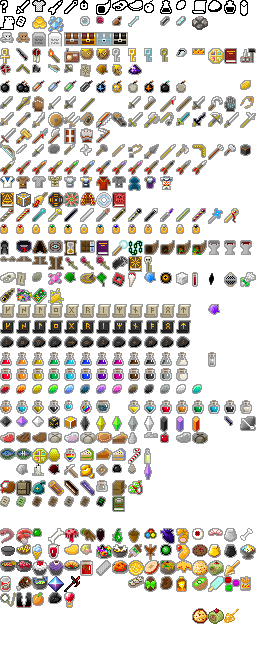
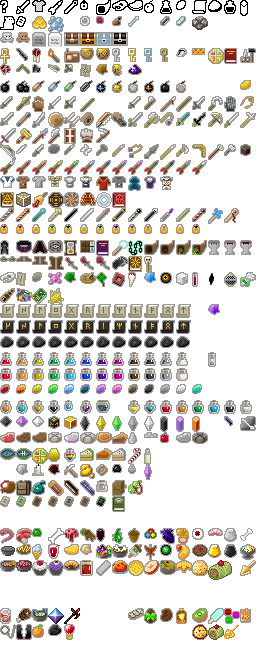
修改鲜肉酿的贴图，并试用新的自适应缩放

Changed region(s): [[0.5, 0.8125, 1.0, 0.9688], [0.0, 0.8438, 0.3125, 0.9688]]

diff --git a/core/src/main/java/com/shatteredpixel/shatteredpixeldungeon/sprites/ItemSpriteSheet.java b/core/src/main/java/com/shatteredpixel/shatteredpixeldungeon/sprites/ItemSpriteSheet.java
@@ -848,7 +848,7 @@ public class ItemSpriteSheet {
 	public static final int BAT_COOKIE 		= COOKED_FOOD+27;
 	public static final int CRISPBITE		= COOKED_FOOD+28;
 	public static final int STUFFED_MEAT 	= COOKED_FOOD+29;
-	public static final int HONEYARROW 		= COOKED_FOOD+30;
+	public static final int HONEYARROW 		= COOKED_FOOD+31;
 	static{
 		assignItemRect(Honey_MEAT,    	15, 11);
 		assignItemRect(ICECREAM, 		10, 16);
@@ -877,7 +877,7 @@ public class ItemSpriteSheet {
 		assignItemRect(ALLY_SOUP,		16, 15);
 		assignItemRect(BAT_COOKIE,		16, 13);
 		assignItemRect(CRISPBITE,		16, 16);
-		assignItemRect(STUFFED_MEAT,	16, 16);
+		assignItemRect(STUFFED_MEAT,	24, 20);
 		assignItemRect(HONEYARROW,		16, 16);
 	}
 
@@ -905,7 +905,7 @@ public class ItemSpriteSheet {
 		assignItemRect(SPARKLING_POTION, 7, 16);
 	}
 
-	private static final int SpecialFood   	=								xy(1, 37);
+	private static final int SpecialFood   	=								xy(1, 39);
 	public static final int COLA			= SpecialFood+0;
 	public static final int DOGESMEAT		= SpecialFood+1;
 	public static final int ZAKOSOUP		= SpecialFood+2;
@@ -919,7 +919,7 @@ public class ItemSpriteSheet {
 		assignItemRect(XUANMI, 			16, 16);
 	}
 
-	private static final int GOODS   		=								xy(9, 37);
+	private static final int GOODS   		=								xy(9, 39);
 	public static final int CHANGFEN		= GOODS+0;
 	public static final int CHOCOLATE_EGG	= GOODS+1;
 	public static final int EGG_PIECE		= GOODS+2;
